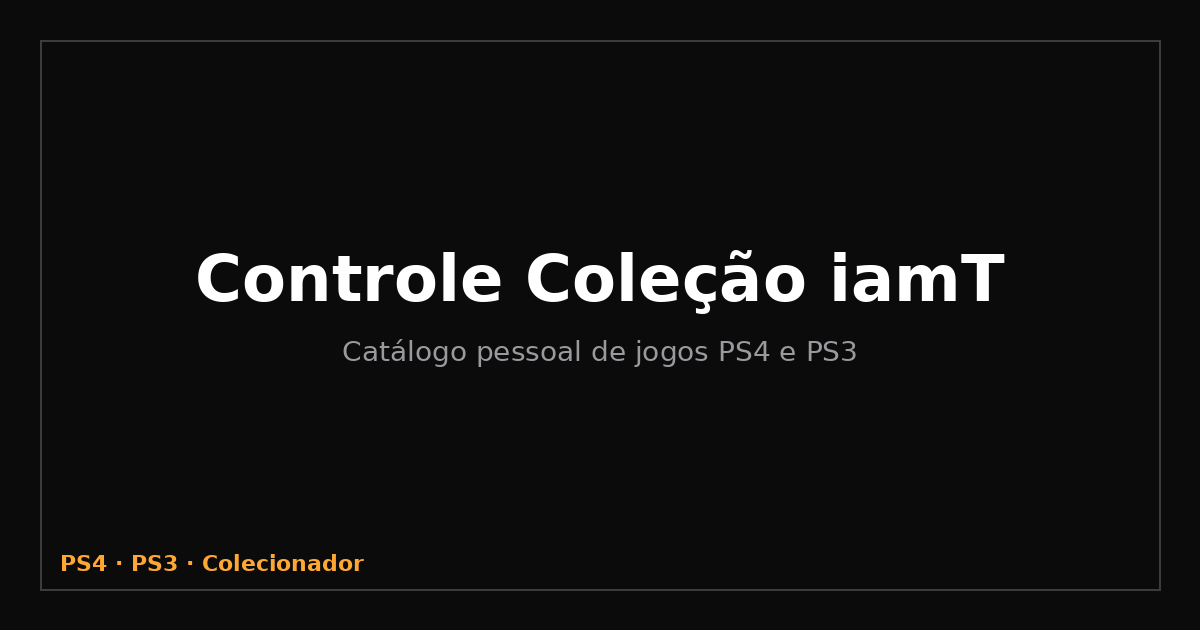
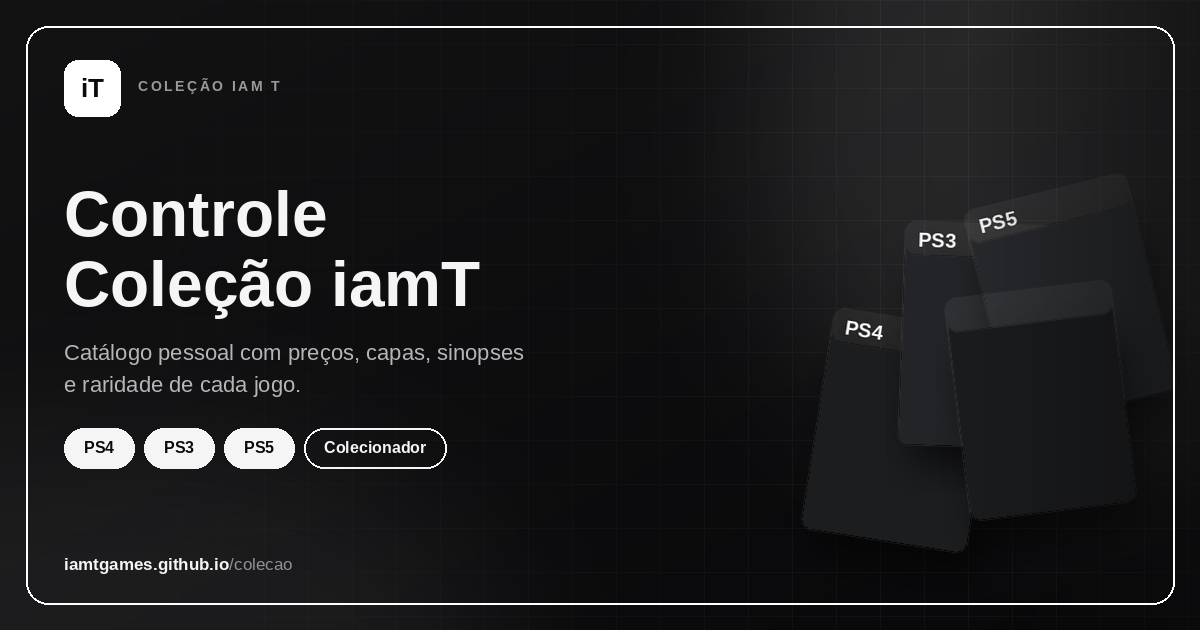
Corrige preview do WhatsApp/OG, impressao/PDF cobertos por painel e icone ICQ transparente sem travar o mouse

diff --git a/index.html b/index.html
@@ -947,6 +947,13 @@
     width:34px; height:34px; display:flex; align-items:center; justify-content:center;
     font-size:22px; filter: drop-shadow(0 2px 3px rgba(0,0,0,.5));
   }
+  /* Icones que usam <img> (ICQ, DOOM.EXE, DIGGER.EXE) senao ficam "arrastaveis"
+     pelo proprio navegador (drag nativo de imagem), o que brigava com o
+     arrastar-e-soltar por pointer events feito em JS e travava o cursor no
+     meio do movimento. pointer-events:none joga o evento sempre pro botao pai. */
+  .y2k-icon .y2k-icon-glyph img{
+    -webkit-user-drag: none; user-drag: none; pointer-events: none;
+  }
   .y2k-icon .y2k-icon-label{
     font-size:10.5px; line-height:1.2; text-align:center; color:#fff;
     text-shadow:0 1px 2px rgba(0,0,0,.85), 0 0 4px rgba(0,0,0,.6);
@@ -1393,7 +1400,7 @@
   #printArea{display:none;}
 
   @media print{
-    body::before, .y2k-taskbar, .topbar, .rarity-chart, .tools, .grid, .result-count, .footer, .modal-overlay, #crtOverlay{
+    body::before, .y2k-taskbar, .y2k-desktop, .topbar, .rarity-chart, .tools, .grid, .result-count, .footer, .modal-overlay, .mini-panel-overlay, #crtOverlay{
       display:none !important;
     }
     body{background:#fff !important; padding:0; color:#111;}
@@ -2324,7 +2331,7 @@
       <span class="y2k-icon-glyph">📖</span><span class="y2k-icon-label">Livro de Visitas</span>
     </button>
     <button class="y2k-icon" data-y2k-action="contato" title="Sugestão / Parceria">
-      <span class="y2k-icon-glyph"><img src="https://w7.pngwing.com/pngs/728/281/png-transparent-windows-live-messenger-microsoft-messenger-service-msn-windows-messenger-microsoft-logo-sphere-microsoft.png" alt="" width="34" height="34" loading="lazy" decoding="async" style="width:100%;height:100%;object-fit:contain;"></span><span class="y2k-icon-label">MSN Sugestão</span>
+      <span class="y2k-icon-glyph"><img src="icq-icon.png" alt="" width="34" height="34" decoding="async" style="width:100%;height:100%;object-fit:contain;"></span><span class="y2k-icon-label">ICQ</span>
     </button>
     <button class="y2k-icon" data-y2k-action="destaques" title="Destaques da Coleção">
       <span class="y2k-icon-glyph">📽</span><span class="y2k-icon-label">destaques.pptx</span>
@@ -2333,10 +2340,10 @@
       <span class="y2k-icon-glyph">📗</span><span class="y2k-icon-label">resumo.xlsx</span>
     </button>
     <button class="y2k-icon" data-y2k-action="doom" title="DOOM (shareware oficial, id Software)">
-      <span class="y2k-icon-glyph"><img src="https://cdn2.steamgriddb.com/icon/c98399cf427813fcbe9bd5ad68d18f56.png" alt="" width="34" height="34" loading="lazy" style="width:100%;height:100%;object-fit:contain;"></span><span class="y2k-icon-label">DOOM.EXE</span>
+      <span class="y2k-icon-glyph"><img src="https://cdn2.steamgriddb.com/icon/c98399cf427813fcbe9bd5ad68d18f56.png" alt="" width="34" height="34" decoding="async" style="width:100%;height:100%;object-fit:contain;"></span><span class="y2k-icon-label">DOOM.EXE</span>
     </button>
     <button class="y2k-icon" data-y2k-action="digger" title="Digger (1983, domínio público)">
-      <span class="y2k-icon-glyph"><img src="digger-icon-transparent.png" alt="" width="34" height="34" loading="lazy" style="width:100%;height:100%;object-fit:contain;"></span><span class="y2k-icon-label">DIGGER.EXE</span>
+      <span class="y2k-icon-glyph"><img src="digger-icon-transparent.png" alt="" width="34" height="34" decoding="async" style="width:100%;height:100%;object-fit:contain;"></span><span class="y2k-icon-label">DIGGER.EXE</span>
     </button>
   </div>
 
